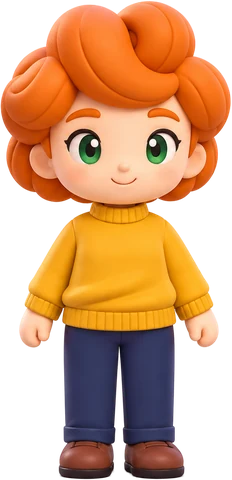
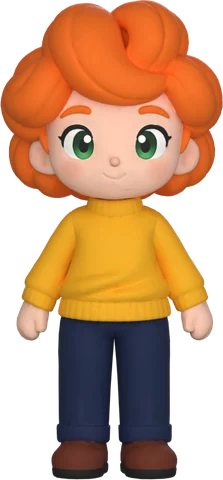
Practice scenes: the doctor, nurse and visitor as the Meshy 3D figures
The three pictures in the memory trainer are now rendered from the Meshy
models (front on, 480 px, transparent, ~20 KB each), so the figures read
as the clay toys. MEM_FIG widths follow the new pictures. User Guide: the
memory answer calls them clay-toy figures and credits Meshy. Feature
notes: how they were made.

Claude-Session: https://claude.ai/code/session_01URjRTz9CJEHwY2jFzZpMGX

diff --git a/guide/topics.js b/guide/topics.js
@@ -509,7 +509,7 @@ const GUIDE_TOPICS = [
     <ol>
       <li>Open <b>CoreCHI Practice</b> and scroll to <b>Consecutive</b>. Tap <b>Start</b> on the Memory trainer.</li>
       <li>Pick <b>Both ways</b>, <b>To Spanish</b> or <b>To English</b>. Turn <b>Notes</b> on if you want to use your notepad, and <b>Record me</b> on to hear yourself afterwards.</li>
-      <li>Tap <b>Start</b> and listen. The ring fills while the line plays. Beside it stand the two people in the room: the doctor or a nurse on the left, the patient or a family member on the right. The one saying the line leans in; the other waits.</li>
+      <li>Tap <b>Start</b> and listen. The ring fills while the line plays. Beside it stand the two people in the room, little clay-toy figures: the doctor or a nurse on the left, the patient or a family member on the right. The one saying the line leans in; the other waits.</li>
       <li>When it says <b>Your turn</b>, say the whole line in the other language. Then tap <b>Show the rendering</b>.</li>
       <li>The model rendering comes in parts. Tap every part you dropped or changed, then tap <b>Next line</b>.</li>
     </ol>
@@ -518,7 +518,8 @@ const GUIDE_TOPICS = [
     <p>Under <b>Start</b>, <b>Your span, by week</b> draws your longest clean line each week for the last 8 weeks. Tap a point to read that week. With notes shows as a second, lighter line.</p>
     <p>With <b>Auto-mark</b> on, the phone listens to your turn and, when you tap Show the rendering, marks the parts it didn't hear ("not heard") and shows what it heard. It can be wrong, a synonym for example, so check the marks and tap to change any. Apple may process what you say, so practise away from patients. It's off unless you turn it on.</p>
     <p>If a line is wrong or sounds odd, tap <b>Flag this line</b> after the rendering and say why. Flags are read before the lines are changed.</p>
-    <p>Your progress stays on this phone. Record me is off unless you turn it on. Near patients, use earbuds.</p>` },
+    <p>Your progress stays on this phone. Record me is off unless you turn it on. Near patients, use earbuds.</p>
+    <p>The doctor, nurse and visitor were made as 3D models with Meshy (meshy.ai) from Jose's drawings.</p>` },
   { id:'voicecheck', section:'trouble', k:'voice mic microphone record recording speech to text dictation listen hear speak audio check test memory trainer', q:'What is the Voice and mic check?', a:`
     <p>A quick test of what your phone can do with sound: the Spanish and English voices, recording yourself, and turning speech into text. It shows what the <b>Memory trainer</b> can use on your phone, and what it may add later.</p>
     <ol>

diff --git a/index.html b/index.html
@@ -11016,8 +11016,8 @@ function memInto(L){ return L.dir === 'en-es' ? 'Spanish' : 'English'; }
 /* Practice scenes (docs/features/practice-scenes.md): the two speakers stand
    either side of the ring, the provider left, the patient or family right,
    you (the ring) between them. The one saying the line leans in while the
-   phone speaks. Pictures cut from Jose's drawing, docs/art/figures-reference.png (figures/). */
-const MEM_FIG = { doctor:[213, 480], nurse:[195, 480], visitor:[232, 480] };
+   phone speaks. Pictures rendered from the Meshy 3D figures (figures/; docs/features/practice-scenes.md). */
+const MEM_FIG = { doctor:[207, 480], nurse:[184, 480], visitor:[223, 480] };
 const MEM_PROVIDER = { discharge:'nurse', meds:'nurse', ob:'nurse', peds:'nurse', consent:'doctor', ed:'doctor', ff:'doctor' };
 function memFigHtml(who, side, state){
   const [w, h] = MEM_FIG[who];

diff --git a/docs/features/practice-scenes.md b/docs/features/practice-scenes.md
@@ -7,12 +7,15 @@ trainer (branch `claude/practice-scenes`): `memSceneHtml`, `memFigHtml`, `MEM_FI
 
 ## As built
 
-- `figures/doctor.webp`, `nurse.webp`, `visitor.webp`: 480 px tall, about 23 KB each, transparent, facing forward.
-  Since 2026-11-04 (second version) they are **cut straight out of Jose's drawing** (`docs/art/figures-reference.png` on
-  branch `claude/hub-figures`; the same crops as for Tripo, doubled, background removed with rembg's
-  `isnet-general-use` model and alpha matting). The first version used pictures rendered from the Tripo models; Jose
-  found the visitor ugly (rough painted skin, lumpy hair), and a second Tripo try with its detailed texture (40
-  credits) was still rough. His drawing is smooth and exact, and the trainer only needs still pictures.
+- `figures/doctor.webp`, `nurse.webp`, `visitor.webp`: 480 px tall, about 20 KB each, transparent, facing forward.
+  Since 2026-11-04 (third version) they are **rendered from the Meshy 3D figures**: Jose's ChatGPT picture of each
+  (`docs/art/*-single.png`, prompts in `docs/mockups/characters/meshy/prompts.md`, all on branch
+  `claude/hub-figures`) made into a model by Meshy's image to 3D (`meshy-7.1`, 2K texture, 30 credits each; the nurse
+  in Jose's Meshy app, the doctor and visitor through the API), slimmed to phone GLBs (`meshy/*.glb`, ~1.7 MB, kept
+  on that branch, not deployed), then rendered front on in Blender (`tools/toy/plain.py`, `EXPO=-0.9`), cropped to
+  the figure and scaled to 480 px. The doctor's hair was lightened to his picture's brown. Before: cut out of Jose's
+  drawing (second version), and Tripo renders (first; Jose found the visitor ugly). The guide credits Meshy (its
+  free-plan models are CC BY 4.0; paid-plan models are the owner's, per Meshy's help pages).
 - Shown in the **Listen** and **Your turn** stages only, either side of the ring (`.mem-scene`, a 3-column grid; the
   figures 150 px tall, 126 px under 360 px wide). Listen: the speaker leans in 3 px and 2 degrees on `--spring0`,
   then bobs 3 px every 0.9 s, with a sound mark by the head; the other is at 60% and less saturated. Your turn: both
@@ -67,5 +70,7 @@ None of the three was opened and tried; this is from their own pages.
 
 ## Open
 
-Nothing. Tripo's terms on commercial use: Jose read them on 2026-11-04 and says the figures can be used in the app.
+Meshy's terms: from its help pages (searched, not opened): paid plans own their models outright, free plan is CC BY 4.0 (credit Meshy). Which plan made the nurse was not checked; the guide's credit covers both.
+
+Earlier, Tripo's terms on commercial use: Jose read them on 2026-11-04 and says the figures can be used in the app.
 (Claude could not open Tripo's pages from the cloud session, so this rests on his reading.)
